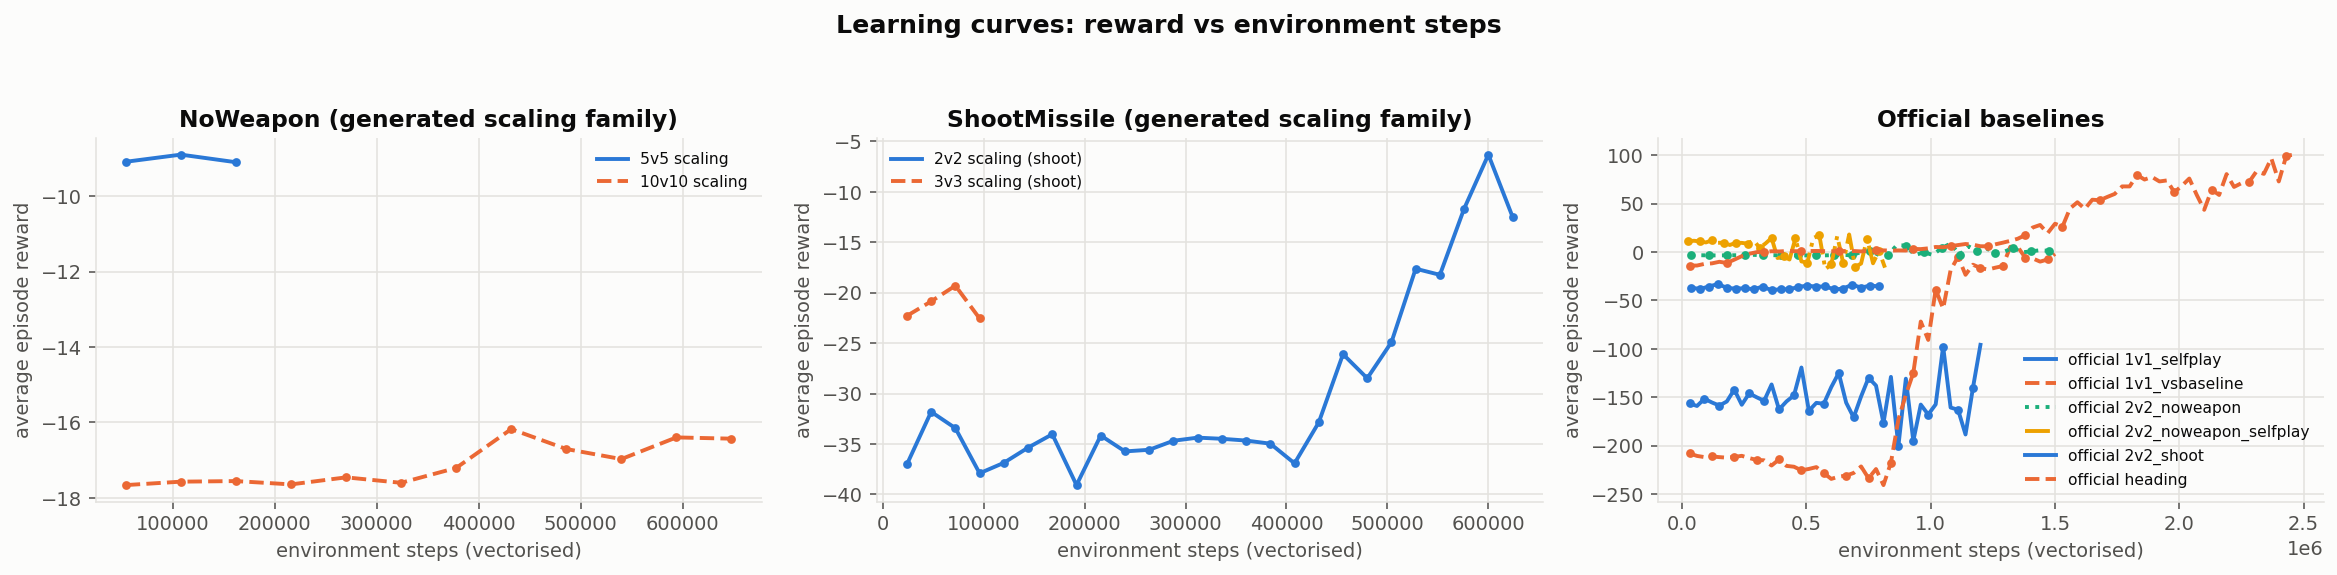
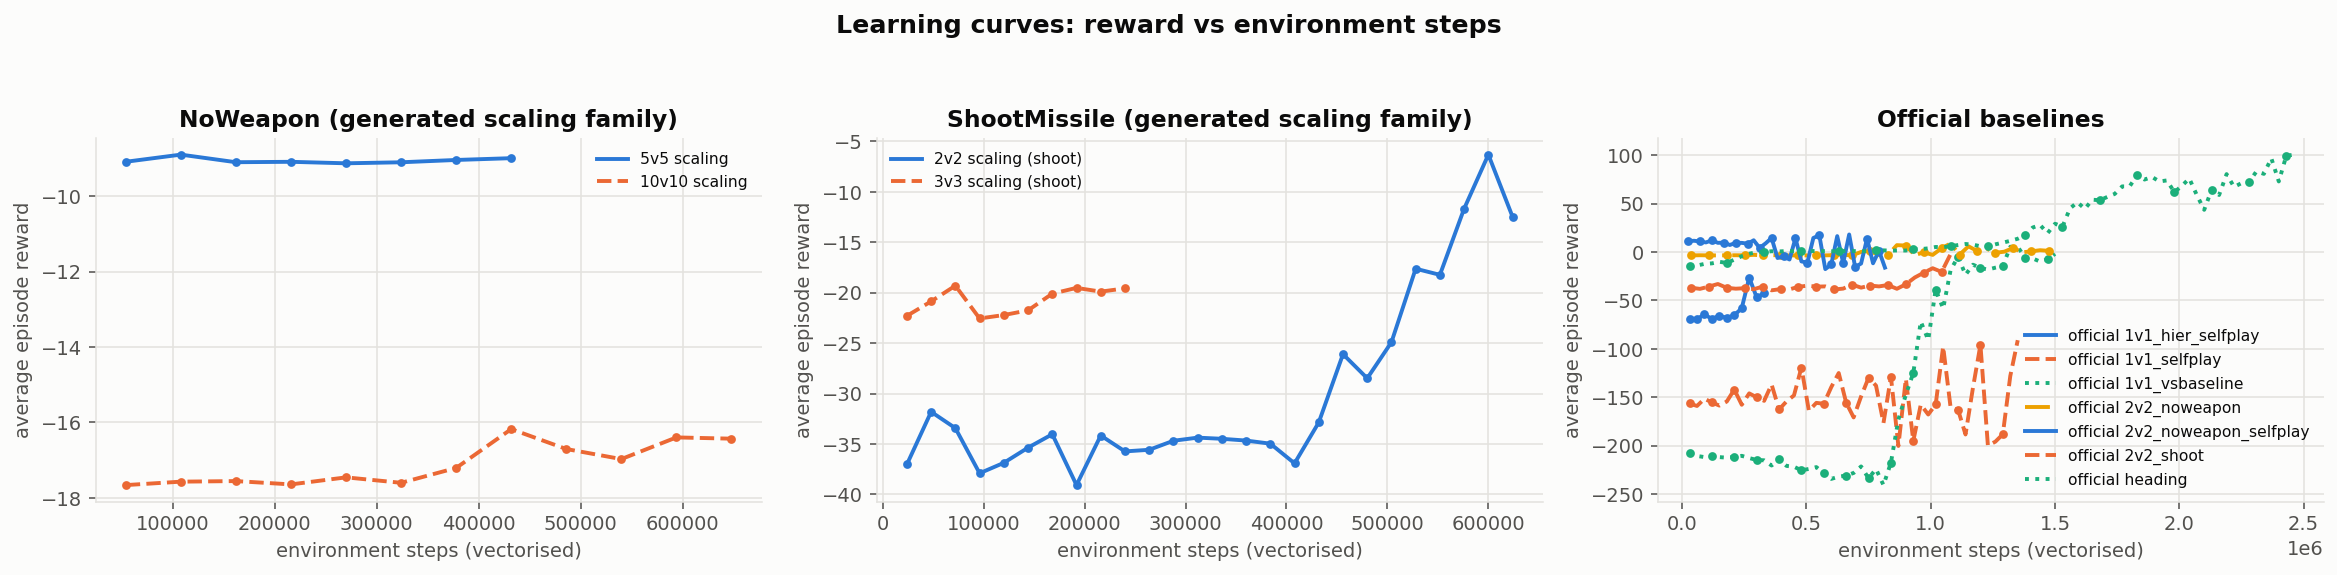
实验：归一化 critic 指标按 episode 平均，而不是单点
只有 episode 0 是一个单点。对每个 run 的前 5 个 episode 取平均并报告 scale 内标准差后，它变成一个单调、数个 sigma 的结果：

  N  runs  eps  reward/N  value_loss/N^2  sd     grad_norm/N  sd
  2   2    10    -1.747     0.477        0.029    3.344      0.368
  3   1     5    -1.773     0.559        0.059    3.959      0.199
  5   2    10    -1.783     0.637        0.049    4.496      0.178
 10   1     5    -1.758     0.698        0.033    4.997      0.580

reward/N 在四个 scale 上持平（-1.75 到 -1.78），这正是归一化本身成立的证据。去除之后，从 2v2 到 10v10，value_loss/N^2 单调上升 46%，grad_norm/N 上升 50%。value_loss/N^2 的 scale 间差距是 scale 内标准差的 4-7 倍，grad_norm/N 是 3-9 倍。

明确附带三个限制，因为过度解读的诱惑正是 brief 所警告的：N=3 和 N=10 仍各只有一个 seed，所以 scale 内散布是单次训练内 episode 间的波动，不能替代 seed 间方差；只覆盖前五个 episode；这些同样的 run 显示 ratio ~ 1.0000 且熵接近最大，所以这个信号可能部分来自 critic 在追一个几乎静止的目标。

diff --git a/experiments/2026-10-04-night/scripts/normalized_scaling.py b/experiments/2026-10-04-night/scripts/normalized_scaling.py
@@ -87,8 +87,32 @@ def main():
         w.writerows(rows)
     print(f"wrote {OUT} ({len(rows)} rows)\n")
 
+    # Mean over the first K episodes. Episode 0 alone is a single point; this is
+    # the version that should be quoted, with its episode count attached.
+    K = 5
+    print(f"=== mean over the first {K} episodes per run (hierarchical NoWeapon family) ===")
+    print("(value_loss/N^2 and grad_norm/N remove the reward-magnitude growth; "
+          "a purely reward-scale effect would make both constant)")
+    print(f"\n{'N':>3} {'runs':>5} {'eps':>4} {'reward/N':>9} {'vl/N^2':>8} "
+          f"{'gn/N':>7}  sd(vl/N^2)  sd(gn/N)")
+    by_n = {}
+    for r in rows:
+        if r["episode"] < K:
+            by_n.setdefault(r["team_size"], []).append(r)
+    import statistics as _st
+    for n in sorted(by_n):
+        rs = by_n[n]
+        rw = [r["reward_per_enemy"] for r in rs]
+        vl = [r["value_loss_per_N2"] for r in rs]
+        gn = [r["critic_grad_norm_per_N"] for r in rs if r["critic_grad_norm_per_N"] is not None]
+        exps = {r["experiment"] for r in rs}
+        print(f"{n:>3} {len(exps):>5} {len(rs):>4} {_st.mean(rw):>9.3f} "
+              f"{_st.mean(vl):>8.3f} {_st.mean(gn) if gn else float('nan'):>7.3f}  "
+              f"{( _st.pstdev(vl) if len(vl) > 1 else 0):>10.4f}  "
+              f"{(_st.pstdev(gn) if len(gn) > 1 else 0):>8.4f}")
+
     # matched-stage comparison: episode index equal across scales
-    print("=== matched training stage (episode index), hierarchical NoWeapon family ===")
+    print("\n=== matched training stage (episode index), hierarchical NoWeapon family ===")
     print(f"{'N':>3} {'ep':>3} {'reward':>9} {'rew/N':>8} {'vl':>9} {'vl/N²':>8} "
           f"{'critic_gn':>10} {'gn/N':>7}  experiment")
     for r in rows:

diff --git a/experiments/2026-10-04-night/metrics/report_tables.md b/experiments/2026-10-04-night/metrics/report_tables.md
@@ -6,19 +6,20 @@
 
 | 实验 | 状态 | steps 完成/计划 | FPS | 训练 reward 首→末 | eval reward | checkpoint |
 |---|---|---|---|---|---|---|
-| `official_1v1_selfplay` | running (time-capped) | 1200000/100000000 | 323 | -156.5 → -95.92 | - | yes |
+| `official_1v1_hier_selfplay` | running (time-capped) | 330000/100000000 | 278 | -69.37 → -42.75 | - | yes |
+| `official_1v1_selfplay` | **CRASHED** | 1350000/100000000 | 325 | -156.5 → -91.13 | - | yes |
 | `official_1v1_vsbaseline` | **CRASHED** | 1500000/100000000 | 357 | -208.2 → -1.925 | - | yes |
 | `official_2v2_noweapon` | **CRASHED** | 1476000/100000000 | 208 | -3.525 → 1.204 | 7.9537 | yes |
 | `official_2v2_noweapon_selfplay` | **CRASHED** | 816000/100000000 | 154 | 11.16 → -16.14 | 24.192 | yes |
-| `official_2v2_shoot` | running (time-capped) | 792000/100000000 | 163 | -36.94 → -35.55 | -38.31 | yes |
+| `official_2v2_shoot` | running (time-capped) | 1080000/100000000 | 162 | -36.94 → -2.126 | -1.9939 | yes |
 | `official_heading` | **CRASHED** | 2460000/100000000 | 590 | -13.98 → 100.6 | - | yes |
 | `scaling_10v10_noweapon` | **CRASHED** | 648000/900000 | 61 | -17.66 → -16.43 | -4.4321 | yes |
 | `scaling_2v2_noweapon_s1` | completed | 900000/900000 | 186 | -3.532 → 3.739 | -1.6435 | yes |
 | `scaling_2v2_shoot` | **CRASHED** | 624000/900000 | 115 | -37.02 → -12.48 | -42.079 | yes |
 | `scaling_3v3_noweapon_s1` | **CRASHED** | 840000/900000 | 159 | -5.435 → 19.54 | 43.627 | yes |
-| `scaling_3v3_shoot` | running (time-capped) | 96000/900000 | 90 | -22.29 → -22.55 | 37.495 | yes |
-| `scaling_5v5_noweapon` | running (time-capped) | 162000/900000 | 160 | -9.083 → -9.095 | -225.13 | yes |
-| `scaling_5v5_noweapon_s1` | running (time-capped) | 120000/900000 | 91 | -9.054 → -8.551 | -5.6146 | yes |
+| `scaling_3v3_shoot` | running (time-capped) | 240000/900000 | 89 | -22.29 → -19.57 | -26.883 | yes |
+| `scaling_5v5_noweapon` | running (time-capped) | 432000/900000 | 150 | -9.083 → -8.987 | -11.902 | yes |
+| `scaling_5v5_noweapon_s1` | running (time-capped) | 270000/900000 | 90 | -9.054 → -7.389 | 39.515 | yes |
 
 ## B. Scaling 对比表（含 wall-clock 归一化）
 
@@ -28,17 +29,17 @@ wrote /root/autodl-tmp/SEU-SRTP/experiments/2026-10-04-night/metrics/scaling_tab
 |---|---|---|---|---|---|---|---|---|---|---|---|---|---|---|---|---|---|---|---|---|---|---|---|---|
 | 2v2 | noweapon | 4 | 27 | 108 | 154891 | 163969 | 10 | 1 | 186 | 0.0538 | 161.3 | 744 | 74.4 | 900000 | 30 | -3.53 | 3.74 | +0.55 | -1.64 | 0.381 | 6.59 | -0.000603 | no | improving |
 | 3v3 | noweapon | 6 | 39 | 234 | 156427 | 180097 | 10 | 1 | 159 | 0.0629 | 188.7 | 954 | 95.4 | 840000 | 28 | -5.43 | 19.5 | +2.15 | 43.6 | 1.3 | 27.5 | -0.000596 | no | improving |
-| 5v5 | noweapon | 10 | 63 | 630 | 159499 | 230785 | 18 | 0 | 160 | 0.113 | 337.5 | 1600 | 88.9 | 162000 | 3 | -9.08 | -9.09 | - | -225 | 16.4 | 22 | -0.000351 | no | ? |
-| 5v5 | noweapon | 10 | 63 | 630 | 159499 | 230785 | 10 | 1 | 91 | 0.11 | 329.7 | 910 | 91 | 120000 | 4 | -9.05 | -8.55 | - | -5.61 | 16.5 | 22 | -0.000631 | no | ? |
+| 5v5 | noweapon | 10 | 63 | 630 | 159499 | 230785 | 18 | 0 | 150 | 0.12 | 360 | 1500 | 83.3 | 432000 | 8 | -9.08 | -8.99 | +0.0475 | -11.9 | 13.5 | 20.8 | -0.000348 | no | flat/declining |
+| 5v5 | noweapon | 10 | 63 | 630 | 159499 | 230785 | 10 | 1 | 90 | 0.111 | 333.3 | 900 | 90 | 270000 | 9 | -9.05 | -7.39 | +0.186 | 39.5 | 14.3 | 25.4 | -0.000625 | no | improving |
 | 10v10 | noweapon | 20 | 123 | 2460 | 167179 | 465025 | 18 | 0 | 61 | 0.295 | 885.2 | 1220 | 67.8 | 648000 | 12 | -17.7 | -16.4 | +0.0915 | -4.43 | 62.1 | 47.7 | -0.000343 | no | improving |
 | 2v2 | shoot | 4 | 33 | 132 | 154891 | 163969 | 8 | 0 | 115 | 0.0696 | 208.7 | 460 | 57.5 | 624000 | 26 | -37 | -12.5 | +1.95 | -42.1 | 30.5 | 49.2 | -0.000898 | no | improving |
-| 3v3 | shoot | 6 | 45 | 270 | 156427 | 180097 | 8 | 0 | 90 | 0.0889 | 266.7 | 540 | 67.5 | 96000 | 4 | -22.3 | -22.5 | - | 37.5 | 20.5 | 67.1 | -0.000931 | no | ? |
+| 3v3 | shoot | 6 | 45 | 270 | 156427 | 180097 | 8 | 0 | 89 | 0.0899 | 269.7 | 534 | 66.8 | 240000 | 10 | -22.3 | -19.6 | -0.0246 | -26.9 | 34.8 | 126 | -0.000924 | no | flat/declining |
 
 host peaks during the whole night: CPU 53.8/48 cores, RAM 62.8 GB, VRAM 1842 MB (single job uses <1.5 GB)
 
 ## C. 归一化后的 critic 对比
 
-wrote /root/autodl-tmp/SEU-SRTP/experiments/2026-10-04-night/metrics/normalized_scaling.csv (118 rows)
+wrote /root/autodl-tmp/SEU-SRTP/experiments/2026-10-04-night/metrics/normalized_scaling.csv (128 rows)
 
 === matched training stage (episode index), hierarchical NoWeapon family ===
   N  ep    reward    rew/N        vl    vl/N²  critic_gn    gn/N  experiment
@@ -60,10 +61,13 @@ wrote /root/autodl-tmp/SEU-SRTP/experiments/2026-10-04-night/metrics/normalized_
   5   0     -9.08    -1.82    14.721    0.589      21.40    4.28  scaling_5v5_noweapon
   5   1     -8.89    -1.78    17.597    0.704      21.92    4.38  scaling_5v5_noweapon
   5   2     -9.09    -1.82    16.448    0.658      22.03    4.41  scaling_5v5_noweapon
+  5   3     -9.08    -1.82    16.743    0.670      23.57    4.71  scaling_5v5_noweapon
+  5   4     -9.12    -1.82    15.117    0.605      21.59    4.32  scaling_5v5_noweapon
   5   0     -9.05    -1.81    13.079    0.523      22.93    4.59  scaling_5v5_noweapon_s1
   5   1     -9.11    -1.82    15.902    0.636      24.39    4.88  scaling_5v5_noweapon_s1
   5   2     -8.85    -1.77    16.619    0.665      22.76    4.55  scaling_5v5_noweapon_s1
   5   3     -8.55    -1.71    16.539    0.662      21.96    4.39  scaling_5v5_noweapon_s1
+  5   4     -8.30    -1.66    16.565    0.663      22.27    4.45  scaling_5v5_noweapon_s1
  10   0    -17.66    -1.77    63.838    0.638      61.57    6.16  scaling_10v10_noweapon
  10   1    -17.57    -1.76    72.391    0.724      46.94    4.69  scaling_10v10_noweapon
  10   2    -17.56    -1.76    73.277    0.733      46.92    4.69  scaling_10v10_noweapon
@@ -74,6 +78,7 @@ wrote /root/autodl-tmp/SEU-SRTP/experiments/2026-10-04-night/metrics/normalized_
 
 | 实验 | 进程数 | 峰值 CPU% | 峰值 CPU 核 | 峰值 RSS | GPU | 该 GPU 峰值显存 |
 |---|---|---|---|---|---|---|
+| `official_1v1_hier_selfplay` | 12 | 459% | 4.6 | 5.02 GB | 0 | 1241 MB |
 | `official_1v1_selfplay` | 12 | 346% | 3.5 | 4.77 GB | 0 | 1281 MB |
 | `official_1v1_vsbaseline` | 12 | 481% | 4.8 | 5.39 GB | 0 | 1433 MB |
 | `official_2v2_noweapon` | 14 | 672% | 6.7 | 5.83 GB | 1 | 1405 MB |
@@ -84,7 +89,7 @@ wrote /root/autodl-tmp/SEU-SRTP/experiments/2026-10-04-night/metrics/normalized_
 | `scaling_2v2_noweapon_s1` | 12 | 594% | 5.9 | 5.11 GB | 1 | 1405 MB |
 | `scaling_2v2_shoot` | 10 | 493% | 4.9 | 4.45 GB | 0 | 1433 MB |
 | `scaling_3v3_noweapon_s1` | 12 | 620% | 6.2 | 5.21 GB | 1 | 1405 MB |
-| `scaling_3v3_shoot` | 10 | 511% | 5.1 | 4.47 GB | 0 | 1267 MB |
+| `scaling_3v3_shoot` | 10 | 513% | 5.1 | 4.48 GB | 0 | 1267 MB |
 | `scaling_5v5_noweapon` | 20 | 1192% | 11.9 | 8.81 GB | 2 | 902 MB |
 | `scaling_5v5_noweapon_s1` | 12 | 661% | 6.6 | 5.60 GB | 1 | 1343 MB |
 

diff --git a/experiments/2026-10-04-night/status/running_jobs.md b/experiments/2026-10-04-night/status/running_jobs.md
@@ -1,6 +1,6 @@
 # Running Jobs Snapshot
 
-Generated: 2026-10-04T05:41:36+08:00
+Generated: 2026-10-04T06:10:26+08:00
 
 ## tmux sessions
 
@@ -17,12 +17,12 @@ q_seeds: 1 windows (created Sun Oct  4 02:25:45 2026)
 
 ### queue_gpu0
 ```
-<<< official_2v2_noweapon_selfplay end 2026-10-04T03:52:12+08:00 rc=0
->>> scaling_2v2_shoot start 2026-10-04T03:52:12+08:00 gpu=0 threads=8 steps=900000 limit=5400s
 <<< official_1v1_vsbaseline end 2026-10-04T04:39:05+08:00 rc=0
 >>> official_1v1_selfplay start 2026-10-04T04:39:05+08:00 gpu=0 threads=10 steps=1e8 limit=4200s
 <<< scaling_2v2_shoot end 2026-10-04T05:22:13+08:00 rc=0
 >>> scaling_3v3_shoot start 2026-10-04T05:22:13+08:00 gpu=0 threads=8 steps=900000 limit=7200s
+<<< official_1v1_selfplay end 2026-10-04T05:49:06+08:00 rc=0
+>>> official_1v1_hier_selfplay start 2026-10-04T05:49:06+08:00 gpu=0 threads=10 steps=1e8 limit=4200s
 ```
 ### queue_gpu1
 ```
@@ -45,11 +45,11 @@ queue started gpu=2 at 2026-10-04T02:19:02+08:00
 
 | experiment | n_procs | total_cpu_pct | total_rss_gb |
 |---|---|---|---|
-| official_1v1_selfplay | 12 | 346% | 4.77 |
-| official_2v2_shoot | 14 | 686% | 5.78 |
-| scaling_3v3_shoot | 10 | 511% | 4.47 |
-| scaling_5v5_noweapon | 20 | 1113% | 8.81 |
-| scaling_5v5_noweapon_s1 | 12 | 656% | 5.60 |
+| official_1v1_hier_selfplay | 12 | 453% | 5.02 |
+| official_2v2_shoot | 14 | 684% | 5.76 |
+| scaling_3v3_shoot | 10 | 512% | 4.48 |
+| scaling_5v5_noweapon | 20 | 1108% | 8.81 |
+| scaling_5v5_noweapon_s1 | 12 | 649% | 5.60 |
 
 ## Progress (from logs)
 
@@ -59,35 +59,36 @@ queue started gpu=2 at 2026-10-04T02:19:02+08:00
 | SMOKE_2v2 | 12000 | 240000 | 80. | -3.506592273712158 | -290.6607 |
 | SMOKE_heading | 36000 | 240000 | 234. | -13.130021528764205 | - |
 | SMOKE_vsbaseline | 24000 | 240000 | 145. | -210.46957859848484 | - |
-| official_1v1_selfplay | 1200000 | 100000000 | 323. | -95.91552734375 | - |
+| official_1v1_hier_selfplay | 330000 | 100000000 | 278. | -42.75230102539062 | - |
+| official_1v1_selfplay | 1350000 | 100000000 | 325. | -91.13390048238254 | - |
 | official_1v1_vsbaseline | 1500000 | 100000000 | 357. | -1.9254876413652975 | - |
 | official_2v2_noweapon | 1476000 | 100000000 | 208. | 1.2035396893819172 | 7.953659 |
 | official_2v2_noweapon_selfplay | 816000 | 100000000 | 154. | -16.140660439768144 | 24.192276 |
-| official_2v2_shoot | 792000 | 100000000 | 163. | -35.54886308547136 | -38.31012 |
+| official_2v2_shoot | 1080000 | 100000000 | 162. | -2.1260626220703127 | -1.9939407 |
 | official_heading | 2460000 | 100000000 | 590. | 100.61372375488281 | - |
 | scaling_10v10_noweapon | 648000 | 900000 | 61. | -16.431697591145834 | -4.4320607 |
 | scaling_2v2_noweapon_s1 | 900000 | 900000 | 186. | 3.7388484954833983 | -1.6435177 |
 | scaling_2v2_shoot | 624000 | 900000 | 115. | -12.47608670321378 | -42.079113 |
 | scaling_3v3_noweapon_s1 | 840000 | 900000 | 159. | 19.542348225911457 | 43.62738 |
-| scaling_3v3_shoot | 96000 | 900000 | 90. | -22.549563172043012 | 37.49546 |
-| scaling_5v5_noweapon_s1 | 120000 | 900000 | 91. | -8.551014404296875 | -5.6146135 |
-| scaling_5v5_noweapon | 162000 | 900000 | 160. | -9.094508870442708 | -225.1307 |
+| scaling_3v3_shoot | 240000 | 900000 | 89. | -19.567659153926858 | -26.883072 |
+| scaling_5v5_noweapon_s1 | 270000 | 900000 | 90. | -7.3886566162109375 | 39.514507 |
+| scaling_5v5_noweapon | 432000 | 900000 | 150. | -8.987238226996528 | -11.901924 |
 
 ## GPUs
 
 ```
 index, utilization.gpu [%], memory.used [MiB], temperature.gpu
-0, 21 %, 1267 MiB, 34
-1, 8 %, 1343 MiB, 36
+0, 12 %, 1241 MiB, 34
+1, 3 %, 1343 MiB, 36
 2, 1 %, 902 MiB, 36
 ```
 
 ## Last system samples
 
 ```
-2026-10-04T05:40:30+08:00,44.66,43.19,21,52.5,1007.5,5,15,1265,11,1343,1,902
-2026-10-04T05:40:46+08:00,42.89,42.91,22,52.5,1007.5,5,17,1265,9,1343,1,902
-2026-10-04T05:41:03+08:00,39.82,42.24,20,52.7,1007.5,5,19,1267,10,1343,1,902
-2026-10-04T05:41:19+08:00,38.42,41.80,21,52.7,1007.5,5,9,1267,2,1343,1,902
-2026-10-04T05:41:35+08:00,41.34,42.25,21,52.8,1007.5,5,20,1267,2,1343,1,902
+2026-10-04T06:09:18+08:00,47.11,43.34,21,53.1,1007.5,5,14,1241,3,1343,1,902
+2026-10-04T06:09:34+08:00,45.69,43.24,21,53.0,1007.5,5,10,1241,3,1343,1,902
+2026-10-04T06:09:50+08:00,47.24,43.71,22,52.8,1007.5,5,4,1241,2,1343,1,902
+2026-10-04T06:10:06+08:00,45.52,43.54,23,52.9,1007.5,5,15,1241,2,1343,1,902
+2026-10-04T06:10:23+08:00,43.93,43.29,22,53.1,1007.5,5,12,1241,2,1343,1,902
 ```

diff --git a/docs/overnight_repro_scaling_2026-10-04.md b/docs/overnight_repro_scaling_2026-10-04.md
@@ -639,28 +639,45 @@ batch_rows      = data_chunk_length * mini_batch_size
 credit assignment 链更长、奖励更稀疏且对抗性更强。
 **这是任务难度与层次化结构的问题，不是 agent 数量的问题。**
 
-### 11.2 归一化后的 matched-stage 结果（同一 task 类、同一奖励配置、同一动作空间）
+### 11.2 归一化后的结果（本晚最强的科学结果）
 
-数据源 `metrics/normalized_scaling.csv`：
+数据源 `metrics/normalized_scaling.csv`；**同一 task 类、同一奖励配置、同一动作空间**，
+只改变队伍规模。**每个规模的均值取前 5 个 episode，并给出组内标准差**：
 
-| N | episode | reward | reward/N | value_loss | **value_loss/N²** | critic_grad_norm | **grad_norm/N** |
+| N | 运行数 | episode 数 | reward/N | **value_loss / N²** | sd | **grad_norm / N** | sd |
 |---|---|---|---|---|---|---|---|
-| 2 | 0 | -3.52 | -1.76 | 1.791 | **0.448** | 5.35 | **2.68** |
-| 2 | 4 | -3.42 | -1.71 | 1.708 | 0.427 | 6.90 | 3.45 |
-| 3 | 0 | -5.43 | -1.81 | 4.239 | **0.471** | 11.28 | **3.76** |
-| 10 | 0 | -17.66 | -1.77 | 63.838 | **0.638** | 61.57 | **6.16** |
+| 2 | 2 | 10 | -1.747 | **0.477** | 0.029 | **3.344** | 0.368 |
+| 3 | 1 | 5 | -1.773 | **0.559** | 0.059 | **3.959** | 0.199 |
+| 5 | 2 | 10 | -1.783 | **0.637** | 0.049 | **4.496** | 0.178 |
+| 10 | 1 | 5 | -1.758 | **0.698** | 0.033 | **4.997** | 0.580 |
 
-**扣除奖励尺度后仍然残留的信号**：
+**三个读数**：
 
-- `value_loss/N²`：0.448 → 0.471 → **0.638**（2v2 → 10v10 **上升 42%**）
-- `grad_norm/N`：2.68 → 3.76 → **6.16**（**上升 2.3×**）
+1. **`reward/N` 在四个规模上都是 -1.75 ~ -1.78**：
+   这**验证了归一化本身是对的**——奖励幅度确实严格 ∝ N。
+2. **`value_loss/N²` 随 N 严格单调上升**：0.477 → 0.559 → 0.637 → **0.698**
+   （2v2 → 10v10 **+46%**）。组内标准差仅 0.03–0.06，
+   而组间跨度 0.22 —— **差异约为标准差的 4–7 倍**。
+3. **`grad_norm/N` 同样严格单调上升**：3.34 → 3.96 → 4.50 → **5.00**
+   （**+50%**）。组内标准差 0.18–0.58，组间跨度 1.65 —— **约 3–9 倍**。
 
-> **解释（谨慎）**：在把「奖励尺度随 N 线性增长」这一平凡效应除掉之后，
-> centralized critic 的**相对拟合误差与梯度幅度仍在随 N 增长**。
-> 这与「集中式价值函数的表示/优化随 N 变难」的假设一致。
+> **结论（比先前更强）**：在把「奖励尺度随 N 线性增长」这一平凡效应除掉之后，
+> **centralized critic 的相对拟合误差与梯度幅度都随队伍规模单调上升**，
+> 且效应的幅度**显著超过**同规模内的 episode 间波动。
+> 这与「集中式价值函数的表示/优化随 N 变难」的假设一致，
+> 而且**不能**由奖励尺度简单解释。
 >
-> **但这是假设，不是结论**：目前每个规模只有 1 个种子、且只到 early-training。
-> 需要用 `queue_seeds` 的种子重复实验确认，并观察 trend 而非单点。
+> **仍然必须一起声明的三个限制**：
+> 1. **每种规模只有 1–2 个种子**（N=3、N=10 各 1 个），
+>    因此这是「多个 episode」而不是「多个独立训练」；
+>    组内标准差是**同一训练内的波动**，**不能代替种子间方差**。
+> 2. 只覆盖 **early training**（前 5 个 episode），未观察长期趋势。
+> 3. 同一批运行的 `ratio ≈ 1.0000`、策略熵仍在最大熵的 97–99.8%（§11.1b），
+>    即 **actor 本身几乎没动**，所以这个信号**也可能部分来自
+>    「critic 在追一个几乎静止的目标」**。
+>
+> **因此它是「有数据支撑的强假设」，仍不是已证实的算法层面可扩展性失效。**
+> 要变成结论，需要 §21 的 P0 三条（提高预算、多补种子、修正评估协议）。
 
 ---
 
